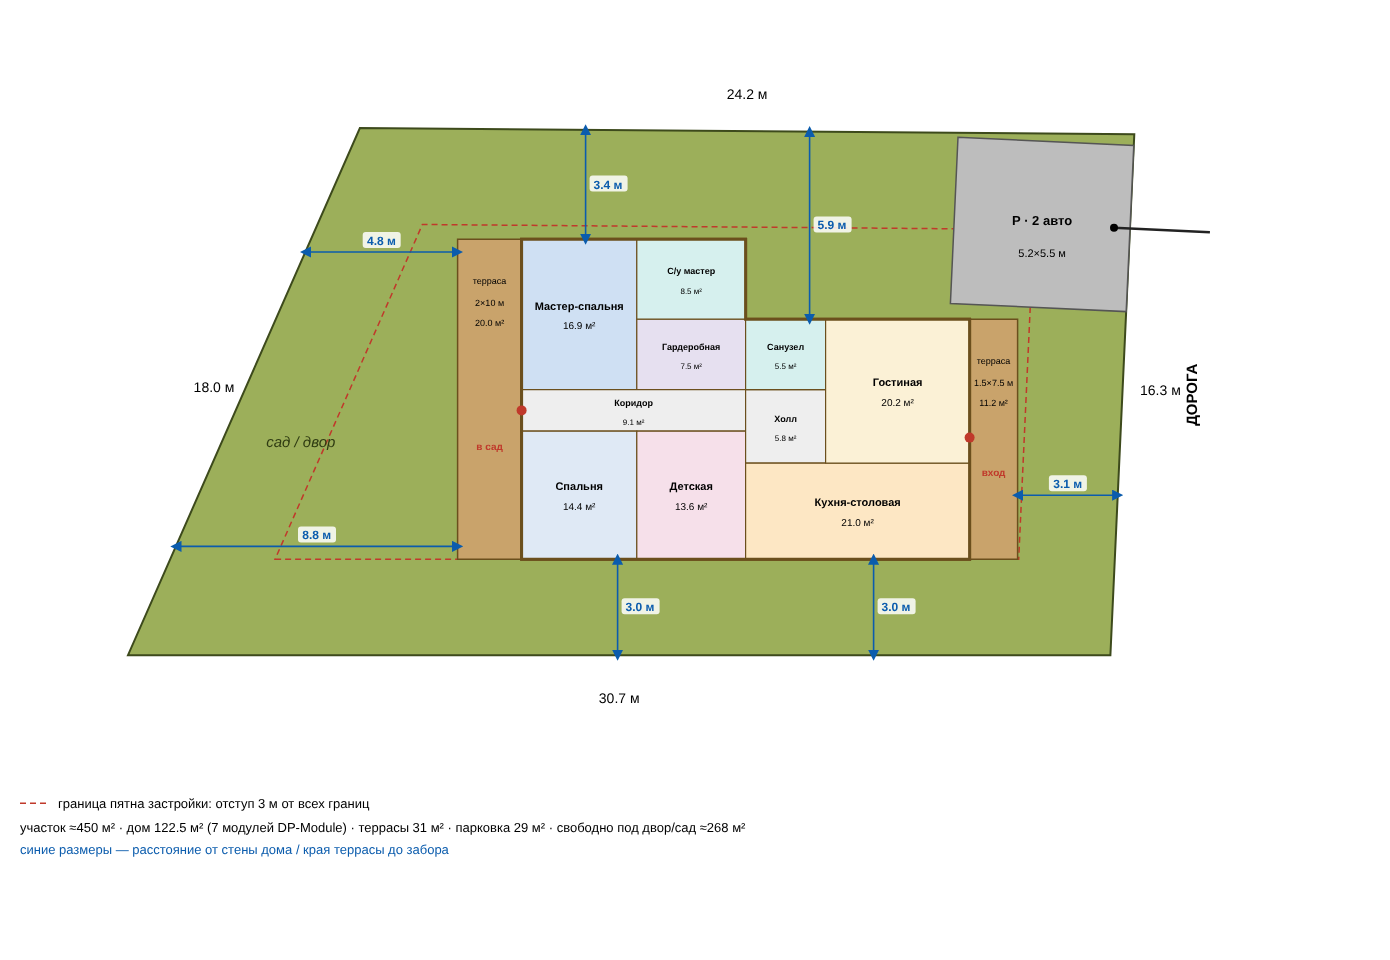
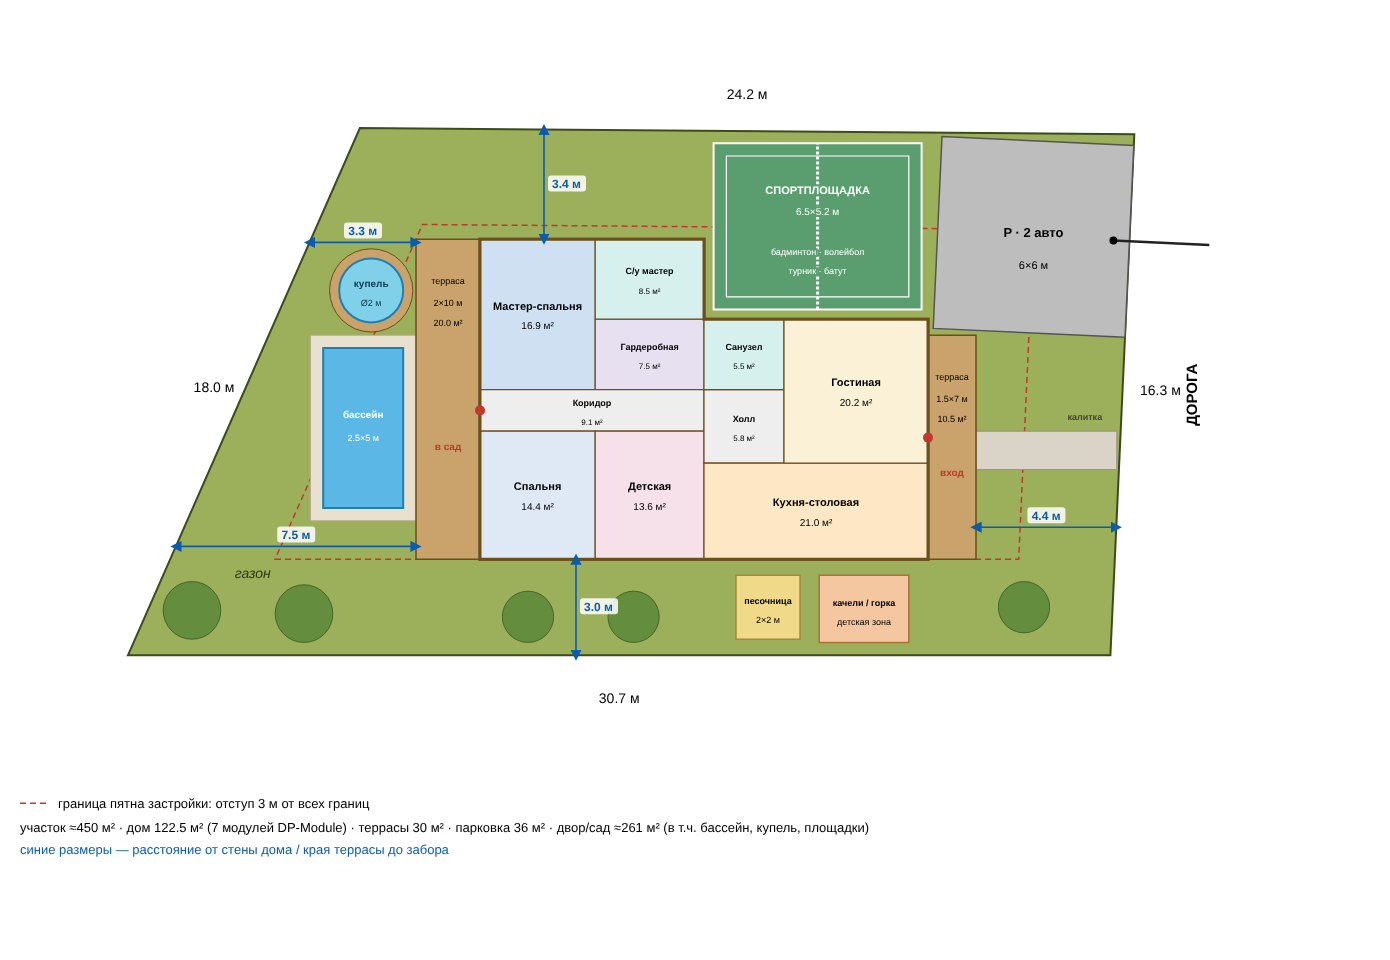
Парковка 6×6 м, бассейн, купель, спортплощадка, детская зона, калитка
Claude-Session: https://claude.ai/code/session_017tjZczqth6Lefs1XGWvp2u

diff --git a/plan.py b/plan.py
@@ -4,7 +4,7 @@ import math
 AB, BC, CD, DA, AREA = 30.7, 16.3, 24.2, 18.0, 450.0  # низ, дорога, верх, лево
 SETBACK = 3.0          # отступ дома от границ (по запросу)
 HOUSE_AREA = 105.0
-PARK_W, PARK_D = 5.2, 5.5  # 2 машины рядом: 2 места по 2.6 × 5.5 м
+PARK_W, PARK_D = 6.0, 6.0  # 2 машины рядом с комфортом: 2 места по 3.0 × 6.0 м (36 м²)
 
 
 def shape(a):
@@ -132,21 +132,28 @@ def place(xe, y0):
 
 HOUSE_BLOCKS = [(0, 0, 14, 7.5), (0, 7.5, 7, 10)]
 best = None
-for yi in range(30, 80):
-    y0 = yi * 0.1
-    for xi in range(320, 100, -1):
-        xe = xi * 0.1
-        loc = place(xe, y0)
-        blocks = [[loc(x0, b0), loc(x1, b0), loc(x1, b1), loc(x0, b1)] for x0, b0, x1, b1 in HOUSE_BLOCKS]
-        road_t, garden_t = ([loc(x0, b0), loc(x1, b0), loc(x1, b1), loc(x0, b1)] for _, x0, b0, x1, b1 in TERRACES)
-        if (all(inside(BUILD, loc(*p)) for p in OUTLINE)
-                and all(inside(BUILD, c) for c in road_t)
-                and all(inside(BUILD, c) for c in garden_t)
-                and not any(overlap(bl, PARK, 0.25) for bl in blocks + [road_t])):
-            if best is None or xe > best[0]:
-                best = (xe, y0)
-            break
+# терраса у дороги при необходимости чуть короче сверху, чтобы рядом встала парковка 6×6
+for rt_top in (7.5, 7.25, 7.0, 6.75, 6.5):
+    TERRACES[0] = ("терраса", 14.0, 0.0, 15.5, rt_top)
+    for yi in range(30, 80):
+        y0 = yi * 0.1
+        for xi in range(320, 100, -1):
+            xe = xi * 0.1
+            loc = place(xe, y0)
+            blocks = [[loc(x0, b0), loc(x1, b0), loc(x1, b1), loc(x0, b1)] for x0, b0, x1, b1 in HOUSE_BLOCKS]
+            road_t, garden_t = ([loc(x0, b0), loc(x1, b0), loc(x1, b1), loc(x0, b1)] for _, x0, b0, x1, b1 in TERRACES)
+            if (all(inside(BUILD, loc(*p)) for p in OUTLINE)
+                    and all(inside(BUILD, c) for c in road_t)
+                    and all(inside(BUILD, c) for c in garden_t)
+                    and not any(overlap(bl, PARK, 0.15) for bl in blocks)
+                    and not overlap(road_t, PARK, 0.1)):  # с парковки сразу на террасу
+                if best is None or xe > best[0]:
+                    best = (xe, y0)
+                break
+    if best:
+        break
 xe, y0 = best
+print("терраса у дороги до Y =", rt_top, "| xe =", round(xe, 2), "y0 =", round(y0, 2))
 local = place(xe, y0)
 
 
@@ -210,6 +217,11 @@ for name, X, Y, LX, LY in DOORS:
     if name:
         ROOMS_SVG.append(text(local(LX, LY), name, 10, fill="#c0392b", font_weight="bold"))
 
+def dist_to_line_any(p):
+    return min(abs((P[(i + 1) % 4][0] - P[i][0]) * (P[i][1] - p[1]) - (P[i][0] - p[0]) * (P[(i + 1) % 4][1] - P[i][1]))
+               / math.hypot(P[(i + 1) % 4][0] - P[i][0], P[(i + 1) % 4][1] - P[i][1]) for i in range(4))
+
+
 def ray_to_fence(p, d):
     """Точка пересечения луча p + k·d с границей участка (ближайшая)."""
     best_k = None
@@ -228,12 +240,10 @@ def ray_to_fence(p, d):
 
 DIMS = [  # (точка в координатах дома, направление) — от стены/террасы до забора
     ((-2.0, 0.4), (-1, 0)),    # сад-терраса, низ
-    ((-2.0, 9.6), (-1, 0)),    # сад-терраса, верх
+    ((-2.0, 9.9), (-1, 0)),    # сад-терраса, верх
     ((3.0, 0.0), (0, -1)),     # спальни -> нижний забор
-    ((11.0, 0.0), (0, -1)),    # кухня -> нижний забор
     ((2.0, 10.0), (0, 1)),     # мастер-блок -> верхний забор
-    ((15.5, 2.0), (1, 0)),     # терраса у дороги -> забор у дороги
-    ((9.0, 7.5), (0, 1)),      # ниша над санузлом -> верхний забор
+    ((15.5, 1.0), (1, 0)),     # терраса у дороги -> забор у дороги
 ]
 DIM_SVG = []
 for (X, Y), d in DIMS:
@@ -252,6 +262,74 @@ for (X, Y), d in DIMS:
                        f'<text x="{mx:.1f}" y="{my - 7:.1f}" font-size="12" font-weight="bold" fill="#0b5cad" text-anchor="middle" font-family="sans-serif">{lbl}</text>')
     print(f"размер от {X, Y} по {d}: {dist:.2f} м")
 
+# ---------- жизнь на участке (координаты от дома: X вдоль дома, Y поперёк) ----------
+def lrect_svg(x0, y0, x1, y1, **kw):
+    return poly_svg(lrect(x0, y0, x1, y1), **kw)
+
+
+def lbl(X, Y, s, size=10, **kw):
+    return text(local(X, Y), s, size, **kw)
+
+
+LEISURE = {
+    "pool": (-4.9, 1.6, -2.4, 6.6),      # бассейн 2.5 × 5 м у садовой террасы
+    "tub": (-3.4, 8.4, 1.0),             # купель Ø2 м у мастер-спальни (центр X, Y, радиус)
+    "sport": (7.3, 7.8, 13.8, 13.0),     # спортплощадка в нише над санузлом/гостиной
+    "sand": (8.0, -2.5, 10.0, -0.5),     # песочница 2 × 2 м под окнами кухни
+    "swing": (10.6, -2.6, 13.4, -0.5),   # качели/горка
+    "path": (15.5, 2.8, 19.9, 4.0),      # дорожка от калитки ко входу
+}
+LS = []
+x0, y0_, x1, y1 = LEISURE["path"]
+LS.append(lrect_svg(x0, y0_, x1, y1, fill="#d9d4c7", stroke="#9a927e", stroke_width=1))
+gx, gy = local(x1 - 0.4, (y0_ + y1) / 2)
+LS.append(text(local(x1 - 1.0, y1 + 0.35), "калитка", 9, fill="#4a4434", font_weight="bold"))
+# деревья / кусты
+for X, Y, r in [(-9.0, -1.6, 0.9), (-5.5, -1.7, 0.9), (1.5, -1.8, 0.8), (4.8, -1.8, 0.8), (17.0, -1.5, 0.8)]:
+    cx, cy = sv(local(X, Y))
+    LS.append(f'<circle cx="{cx:.1f}" cy="{cy:.1f}" r="{r * SC:.1f}" fill="#5f8a3a" stroke="#3d5e22" stroke-width="1" opacity="0.9"/>')
+# спортплощадка
+x0, y0_, x1, y1 = LEISURE["sport"]
+LS.append(lrect_svg(x0, y0_, x1, y1, fill="#5a9e6f", stroke="#ffffff", stroke_width=2))
+LS.append(lrect_svg(x0 + 0.4, y0_ + 0.4, x1 - 0.4, y1 - 0.4, fill="none", stroke="#ffffff", stroke_width=1.2))
+(nx1, ny1), (nx2, ny2) = sv(local((x0 + x1) / 2, y0_)), sv(local((x0 + x1) / 2, y1))
+LS.append(f'<line x1="{nx1:.1f}" y1="{ny1:.1f}" x2="{nx2:.1f}" y2="{ny2:.1f}" stroke="#ffffff" stroke-width="3" stroke-dasharray="3 2"/>')
+LS.append(lbl((x0 + x1) / 2, (y0_ + y1) / 2 + 1.0, "СПОРТПЛОЩАДКА", 11, fill="#fff", font_weight="bold", stroke="#5a9e6f", stroke_width=4, paint_order="stroke"))
+LS.append(lbl((x0 + x1) / 2, (y0_ + y1) / 2 + 0.35, f"{x1 - x0:g}×{y1 - y0_:g} м", 10, fill="#fff", stroke="#5a9e6f", stroke_width=4, paint_order="stroke"))
+LS.append(lbl((x0 + x1) / 2, (y0_ + y1) / 2 - 0.9, "бадминтон · волейбол", 9, fill="#fff", stroke="#5a9e6f", stroke_width=4, paint_order="stroke"))
+LS.append(lbl((x0 + x1) / 2, (y0_ + y1) / 2 - 1.5, "турник · батут", 9, fill="#fff", stroke="#5a9e6f", stroke_width=4, paint_order="stroke"))
+# бассейн
+x0, y0_, x1, y1 = LEISURE["pool"]
+LS.append(lrect_svg(x0 - 0.4, y0_ - 0.4, x1 + 0.4, y1 + 0.4, fill="#e9e1cf", stroke="#b8ab8a", stroke_width=1))
+LS.append(lrect_svg(x0, y0_, x1, y1, fill="#5bb8e6", stroke="#1f7fb0", stroke_width=2))
+LS.append(lbl((x0 + x1) / 2, (y0_ + y1) / 2 + 0.3, "бассейн", 10, fill="#fff", font_weight="bold"))
+LS.append(lbl((x0 + x1) / 2, (y0_ + y1) / 2 - 0.4, f"{x1 - x0:g}×{y1 - y0_:g} м", 9, fill="#fff"))
+# купель
+X, Y, r = LEISURE["tub"]
+cx, cy = sv(local(X, Y))
+LS.append(f'<circle cx="{cx:.1f}" cy="{cy:.1f}" r="{(r + 0.3) * SC:.1f}" fill="#c9a36b" stroke="#6b4f1d" stroke-width="1"/>')
+LS.append(f'<circle cx="{cx:.1f}" cy="{cy:.1f}" r="{r * SC:.1f}" fill="#7fd0e8" stroke="#1f7fb0" stroke-width="2"/>')
+LS.append(lbl(X, Y + 0.1, "купель", 10, font_weight="bold", fill="#0d3b52"))
+LS.append(lbl(X, Y - 0.5, f"Ø{2 * r:g} м", 9, fill="#0d3b52"))
+# песочница и качели
+x0, y0_, x1, y1 = LEISURE["sand"]
+LS.append(lrect_svg(x0, y0_, x1, y1, fill="#f1d98a", stroke="#a8893a", stroke_width=1.5))
+LS.append(lbl((x0 + x1) / 2, (y0_ + y1) / 2 + 0.1, "песочница", 9, font_weight="bold"))
+LS.append(lbl((x0 + x1) / 2, (y0_ + y1) / 2 - 0.5, "2×2 м", 9))
+x0, y0_, x1, y1 = LEISURE["swing"]
+LS.append(lrect_svg(x0, y0_, x1, y1, fill="#f4c7a1", stroke="#b0703a", stroke_width=1.5))
+LS.append(lbl((x0 + x1) / 2, (y0_ + y1) / 2 + 0.1, "качели / горка", 9, font_weight="bold"))
+LS.append(lbl((x0 + x1) / 2, (y0_ + y1) / 2 - 0.5, "детская зона", 9))
+
+# проверка: всё внутри участка, не пересекается с домом/террасами/парковкой
+_house_blocks = [lrect(*b) for b in HOUSE_BLOCKS] + [lrect(*t[1:]) for t in TERRACES]
+for k, v in LEISURE.items():
+    poly = lrect(v[0] - v[2], v[1] - v[2], v[0] + v[2], v[1] + v[2]) if k == "tub" else lrect(*v)
+    ok_in = all(inside(P, c) for c in poly)
+    hits = [i for i, b in enumerate(_house_blocks) if overlap(b, poly, 0.0)] if k != "path" else []
+    print(f"{k}: внутри участка={ok_in}, пересечения с домом/террасами={hits}, с парковкой={overlap(PARK, poly)}, "
+          f"мин. до забора={min(min(dist_to_line_any(c) for c in poly) for _ in [0]):.2f} м")
+
 TERR_AREA = sum(abs((t[3] - t[1]) * (t[4] - t[2])) for t in TERRACES)
 FREE = area(P) - HOUSE_AREA - TERR_AREA - PARK_W * PARK_D
 
@@ -264,6 +342,7 @@ el = [
     poly_svg(PARK, fill="#bdbdbd", stroke="#555", stroke_width=1.5),
     '<defs><marker id="arr" viewBox="0 0 10 10" refX="5" refY="5" markerWidth="7" markerHeight="7" orient="auto-start-reverse">'
     '<path d="M0,0 L10,5 L0,10 z" fill="#0b5cad"/></marker></defs>',
+    *LS,
     *ROOMS_SVG,
     *DIM_SVG,
     text(centroid(PARK), "P · 2 авто", 13, font_weight="bold"),
@@ -278,13 +357,12 @@ mx, my = sv(mid(B, C)); el[-1] = f'<text x="{mx+38:.1f}" y="{my:.1f}" font-size=
 # стрелка въезда
 e1 = sv(to_xy(park_s + PARK_W / 2, -2.5)); e2 = sv(to_xy(park_s + PARK_W / 2, 0.5))
 el.append(f'<line x1="{e1[0]:.1f}" y1="{e1[1]:.1f}" x2="{e2[0]:.1f}" y2="{e2[1]:.1f}" stroke="#222" stroke-width="2.5"/><circle cx="{e2[0]:.1f}" cy="{e2[1]:.1f}" r="4"/>')
-garden = (5.4, 6.5)
-el.append(text(garden, "сад / двор", 15, fill="#2f3b12", font_style="italic"))
+el.append(text((3.9, 2.4), "газон", 14, fill="#2f3b12", font_style="italic"))
 y0 = (maxy - miny) * SC + 25
 el.append(f'<rect x="20" y="{y0-12}" width="28" height="0" stroke="#c0392b" stroke-dasharray="6 4" stroke-width="1.5"/>')
 el.append(f'<line x1="20" y1="{y0-5}" x2="50" y2="{y0-5}" stroke="#c0392b" stroke-dasharray="6 4" stroke-width="1.5"/>')
 el.append(f'<text x="58" y="{y0}" font-size="13" font-family="sans-serif">граница пятна застройки: отступ {SETBACK:g} м от всех границ</text>')
-el.append(f'<text x="20" y="{y0+24}" font-size="13" font-family="sans-serif">участок ≈{area(P):.0f} м² · дом {HOUSE_AREA:.1f} м² (7 модулей DP-Module) · террасы {TERR_AREA:.0f} м² · парковка {PARK_W*PARK_D:.0f} м² · свободно под двор/сад ≈{FREE:.0f} м²</text>')
+el.append(f'<text x="20" y="{y0+24}" font-size="13" font-family="sans-serif">участок ≈{area(P):.0f} м² · дом {HOUSE_AREA:.1f} м² (7 модулей DP-Module) · террасы {TERR_AREA:.0f} м² · парковка {PARK_W*PARK_D:.0f} м² · двор/сад ≈{FREE:.0f} м² (в т.ч. бассейн, купель, площадки)</text>')
 el.append(f'<text x="20" y="{y0+46}" font-size="13" fill="#0b5cad" font-family="sans-serif">синие размеры — расстояние от стены дома / края террасы до забора</text>')
 el.append("</svg>")
 open("plan.svg", "w").write("\n".join(el))
